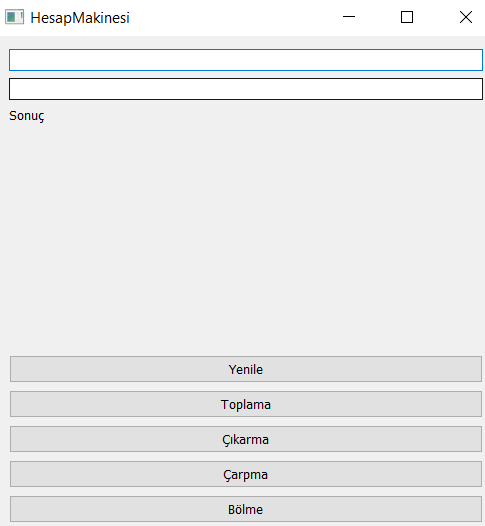
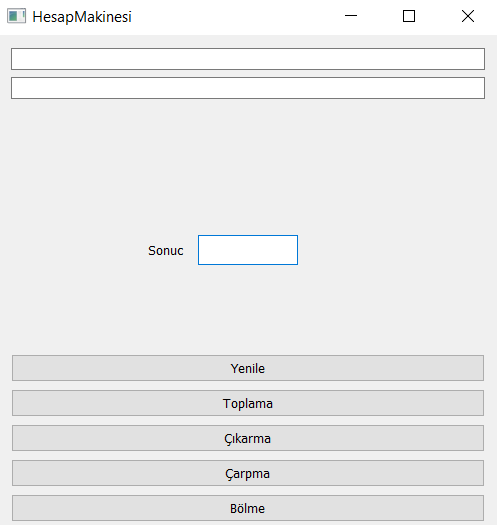
Hesap Makinesi

diff --git a/Hesap_makinesi/hesap_makinesi.py b/Hesap_makinesi/hesap_makinesi.py
@@ -30,14 +30,18 @@ class Window(QtWidgets.QWidget):
         
         self.yazı_alanı2 = QtWidgets.QLineEdit()
               
-        self.sonuc = QtWidgets.QLabel()
-        self.sonuc.setText("Sonuç")
+        self.sonuc = QtWidgets.QLineEdit(self)
+        self.sonuc.move(200,200)
+       
+        self.sonuc2 = QtWidgets.QLabel(self)
+        self.sonuc2.setText("Sonuc")
+        self.sonuc2.move(150,200)
         
         v_box = QtWidgets.QVBoxLayout()
         
         v_box.addWidget(self.yazı_alanı1)
         v_box.addWidget(self.yazı_alanı2)
-        v_box.addWidget(self.sonuc)
+        
         
         v_box.addStretch()
         v_box.addWidget(self.yenile)
